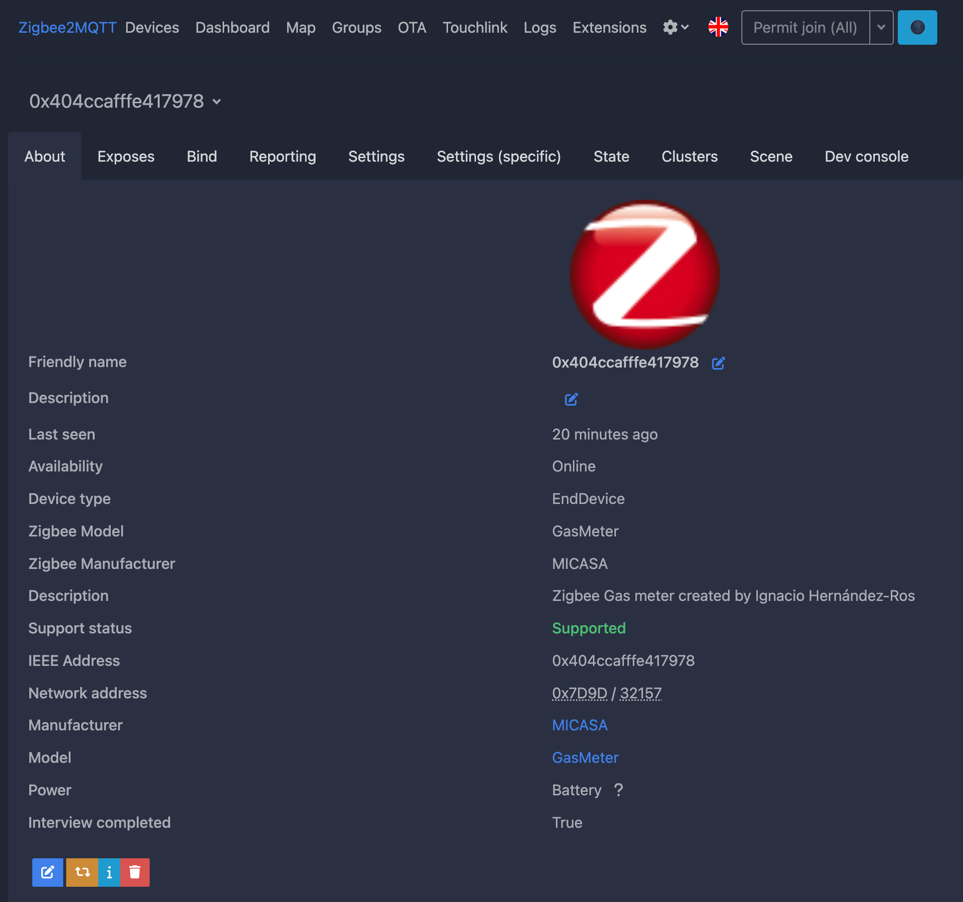
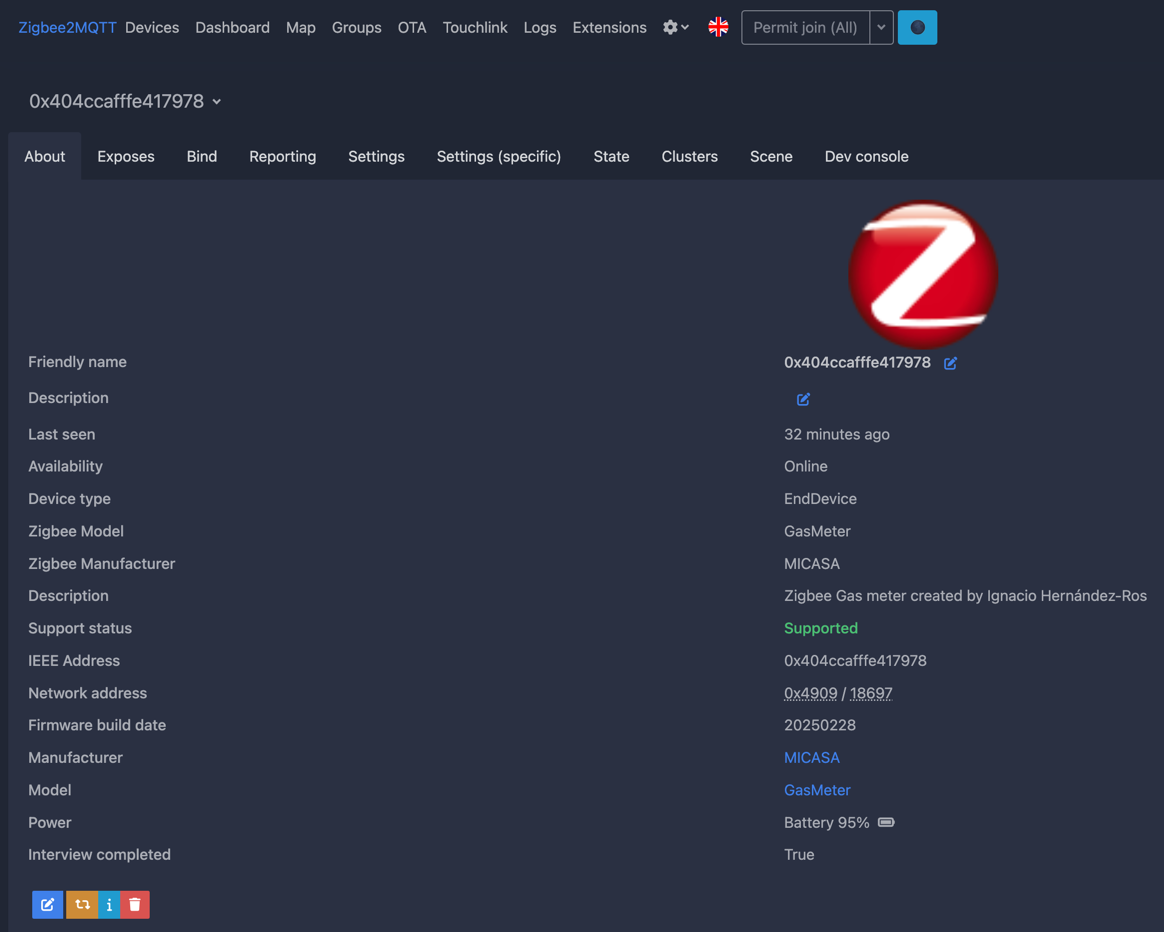
README.md and images updated to current status

diff --git a/README.md b/README.md
@@ -43,6 +43,20 @@ After searching for commercial Zigbee gas meters and finding none, I decided to 
 
 ![Old device](images/small_gas_counter.png)
 
+## Project Status
+
+This project is still in the development phase. While it is not yet deployed for real gas consumption measurement, I have a working prototype on an **ESP32-C6-WROOM-1 development board** in a test environment. The prototype uses two buttons: one simulating the gas meter pulses and the other functioning as the main device button. The software is operational, but several key aspects are still under development.
+
+### What is missing and how you can help
+
+See the **TODO** section below for specific tasks that need to be completed.
+
+One of my main concerns is **power consumption and battery life**. While the software includes battery status reporting, I have not yet implemented battery level measurement, nor do I have the necessary hardware to do so. I have acquired some components to analyze the processor’s power consumption, which will help optimize battery usage.
+
+Currently, the prototype runs on a development board, but the long-term goal is to use only the **ESP32-C6 chip**, eliminating unnecessary components. To achieve this, I will need help reviewing schematics and PCB designs, as **I’m not an expert in hardware design—just an enthusiast**. If you have experience in this area, your input would be greatly appreciated.
+
+For discussions and contributions, please join the ongoing thread on the Home Assistant Community: 👉 [Zigbee Gas Counter](https://community.home-assistant.io/t/zigbee-gas-counter/833557)
+
 ## Getting Started
 
 ### Required Hardware
@@ -142,10 +156,10 @@ If you want to contribute or improve this project, feel free to fork the reposit
 
 Here are the planned improvements:
 
-1. Implement battery monitoring and reporting via Zigbee.
-1. Design a custom PCB for the ESP32-C6, connectors, and resistors.
-1. Create a 3D-printed enclosure for secure installation.
-1. OTA support.
+1. Implement battery measuring.
+2. Design a custom PCB for the ESP32-C6, connectors and resistors.
+3. Create a 3D-printed enclosure for secure installation.
+4. OTA support.
 
 ## Acknowledgments
 
